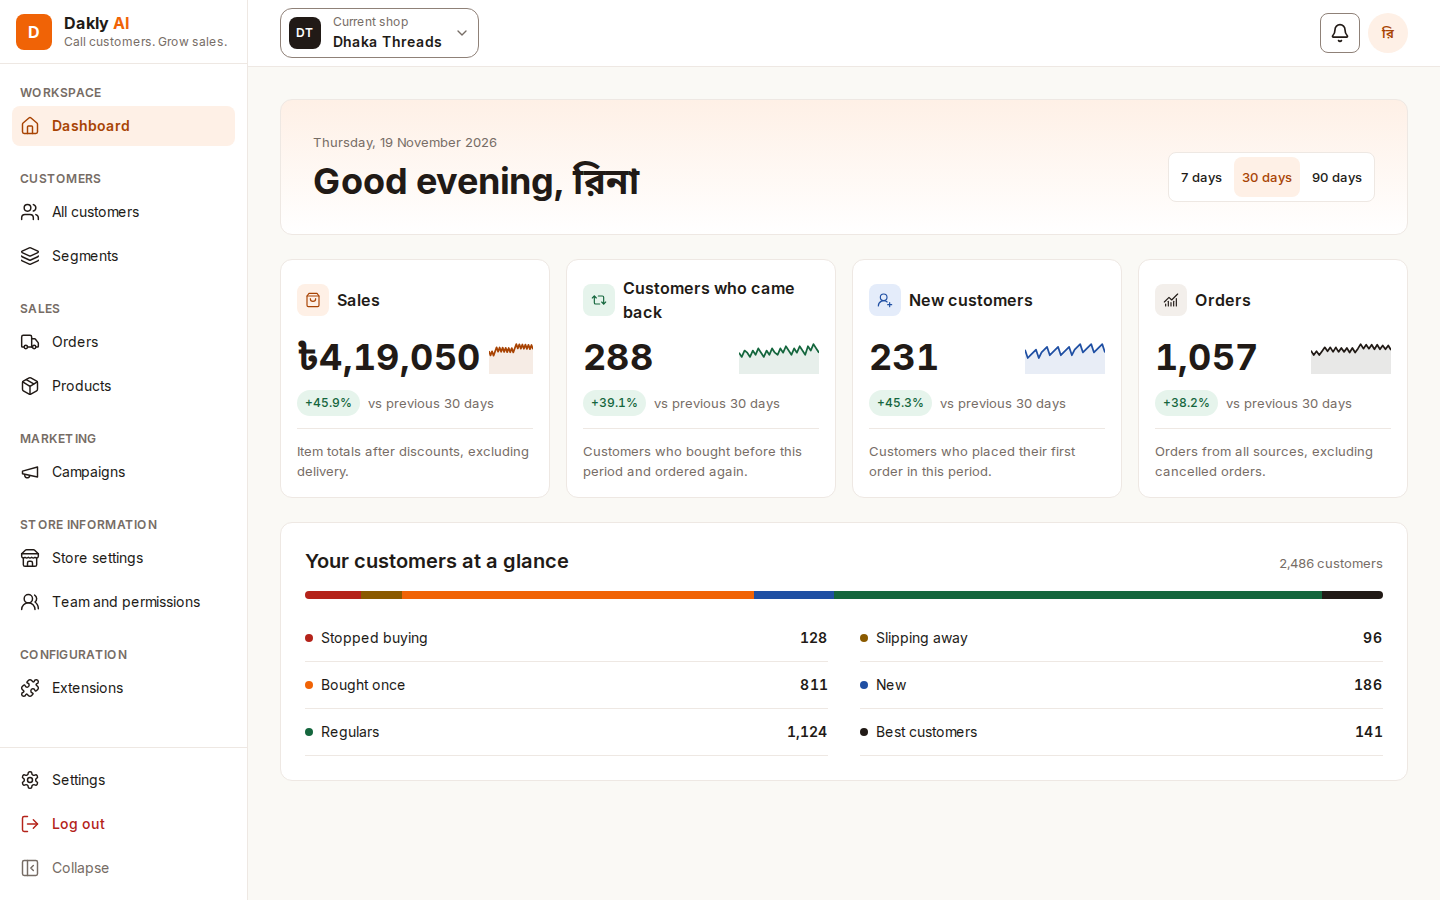
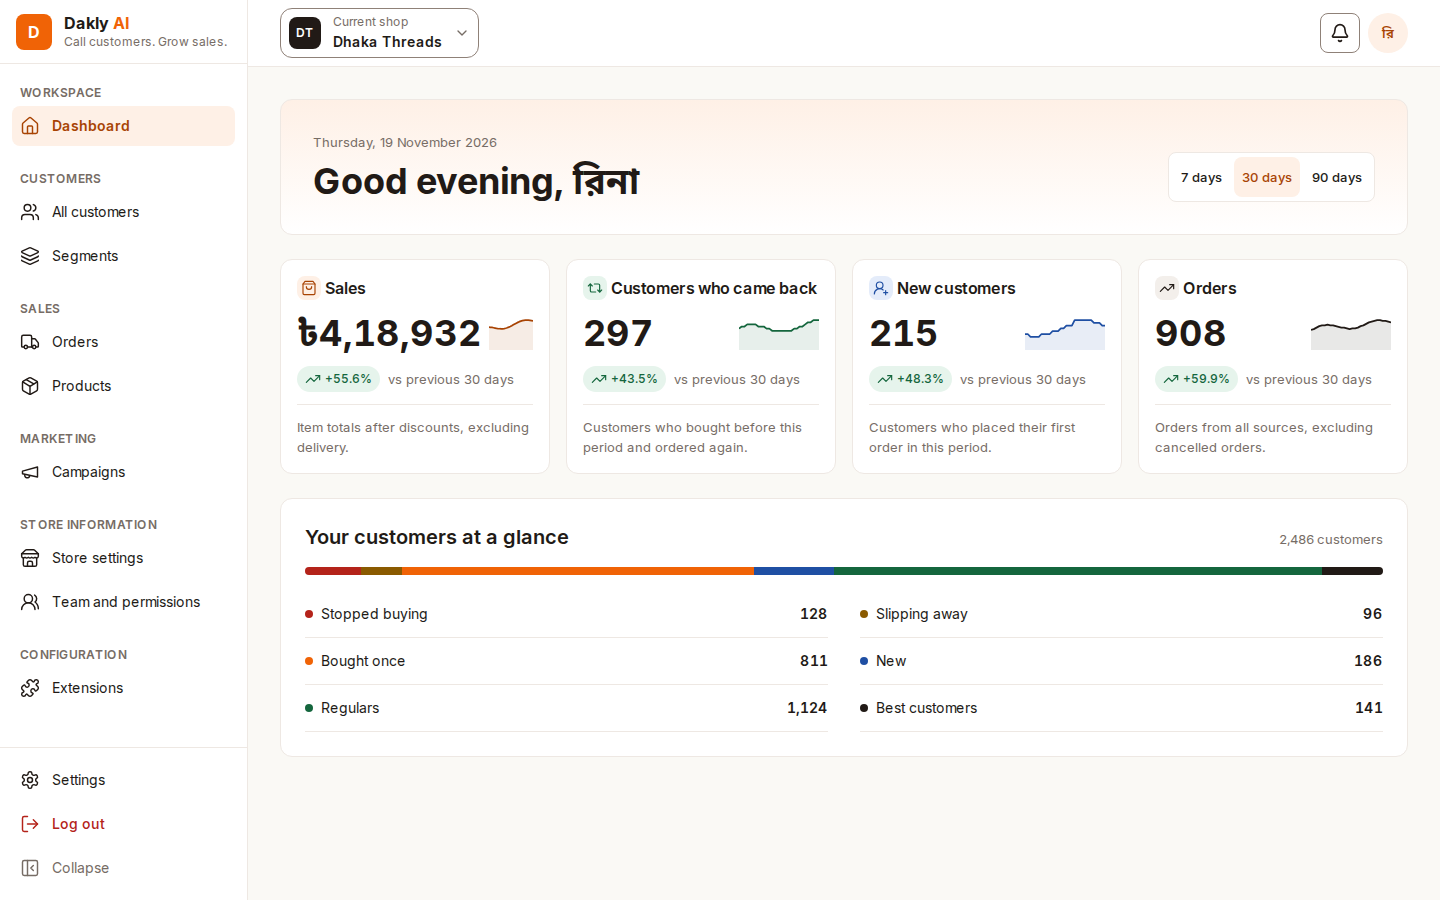
fix(home-3): match the reviewed card layout and trend labels

diff --git a/apps/web/e2e/dashboard.spec.ts b/apps/web/e2e/dashboard.spec.ts
@@ -1,3 +1,5 @@
+import { createHash } from 'node:crypto';
+
 import { expect, test } from '@playwright/test';
 
 import { createDatabase } from '@dakly/db/client';
@@ -22,15 +24,15 @@ test('changes the report period and keeps cards scoped to the selected shop', as
          from generate_series(0,59) as age
        )
        insert into store_daily_metrics (store_id,day,metric,dimension,value)
-       select $1::uuid,day,'orders','',15 + (59-age)/3 + (age*7)%13 from days
+       select $1::uuid,day,'orders','',15 + (59-age)/3 + round(sin(age/3.0)*4)::int from days
        union all
-       select $1,day,'sales','manual',500000 + (59-age)*15000 + (age*7)%13*40000 from days
+       select $1,day,'sales','manual',630000 + (59-age)*17000 + round(sin(age/4.0)*1400)::int*100 from days
        union all
        select $1,day,'buyer_activity',gen_random_uuid()::text,day-date '1970-01-01' from days
-       cross join lateral generate_series(1,3+(59-age)/12+(age*3)%4)
+       cross join lateral generate_series(1,4+(59-age)/12+round(sin(age/5.0)*2)::int)
        union all
        select $1,day,'buyer_activity',gen_random_uuid()::text,day-date '1970-01-01'-120 from days
-       cross join lateral generate_series(1,4+(59-age)/11+(age*7)%5)`,
+       cross join lateral generate_series(1,6+(59-age)/11+round(cos(age/4.0)*2)::int)`,
       [ownerShop],
     );
     await database.pool.query(
@@ -58,10 +60,15 @@ test('changes the report period and keeps cards scoped to the selected shop', as
     for (const title of ['Sales', 'Customers who came back', 'New customers', 'Orders']) {
       await expect(figures.getByRole('heading', { name: title, exact: true })).toBeVisible();
     }
+    await expect(figures.getByRole('img', { name: 'Up', exact: true })).toHaveCount(4);
     const lifecycle = page.getByRole('region', { name: 'Your customers at a glance' });
     await expect(lifecycle.getByText('2,486 customers', { exact: true })).toBeVisible();
+    await page.evaluate(async () => document.fonts.ready);
+    const repeatTitle = figures.getByRole('heading', { name: 'Customers who came back' });
+    expect(await repeatTitle.evaluate((title) => title.scrollWidth <= title.clientWidth)).toBe(
+      true,
+    );
     if (process.env.DASHBOARD_EVIDENCE) {
-      await page.evaluate(async () => document.fonts.ready);
       await page.screenshot({ path: testInfo.outputPath('dashboard-1440x900.png') });
     }
     await page.setViewportSize({ width: 360, height: 800 });
@@ -89,6 +96,10 @@ test('changes the report period and keeps cards scoped to the selected shop', as
     await expect(figures.getByText('vs previous 30 days')).toHaveCount(4);
 
     await page.setViewportSize({ width: 1440, height: 900 });
+    const saleAmount = figures.getByText(/^৳[0-9,]+$/);
+    expect(
+      await saleAmount.evaluate((amount) => amount.getBoundingClientRect().height),
+    ).toBeLessThan(48);
     await page.getByRole('combobox', { name: 'Current shop' }).selectOption(marketerShop);
     await expect(lifecycle.getByText('12 customers', { exact: true })).toBeVisible();
     await expect(
@@ -98,6 +109,10 @@ test('changes the report period and keeps cards scoped to the selected shop', as
     await expect(figures.getByRole('heading', { name: 'Orders', exact: true })).toHaveCount(0);
   } finally {
     await scrubPage(page);
+    await database.pool.query('update sessions set active_store_id=$1 where token_hash=$2', [
+      ownerShop,
+      createHash('sha256').update(fixture.token).digest(),
+    ]);
     await database.pool.query('delete from store_daily_metrics where store_id=any($1::uuid[])', [
       fixture.storeIds,
     ]);

diff --git a/apps/web/src/features/dashboard/components/dashboard-metrics.tsx b/apps/web/src/features/dashboard/components/dashboard-metrics.tsx
@@ -1,4 +1,4 @@
-import { ChartNoAxesCombined, Repeat2, ShoppingBag, UserRoundPlus } from 'lucide-react';
+import { Repeat2, ShoppingBag, TrendingDown, TrendingUp, UserRoundPlus } from 'lucide-react';
 
 import type { DashboardResponse } from '@dakly/contracts/dashboard';
 import { Badge } from '@dakly/ui/badge';
@@ -35,7 +35,7 @@ const metrics = [
   {
     id: 'orders',
     title: 'Orders',
-    icon: ChartNoAxesCombined,
+    icon: TrendingUp,
     color: 'text-text',
     fill: 'bg-surface-muted',
     description: 'Orders from all sources, excluding cancelled orders.',
@@ -45,7 +45,6 @@ const metrics = [
 type MetricsProps = { cards: DashboardResponse['cards']; period: number };
 
 export function DashboardMetrics({ cards, period }: MetricsProps) {
-  if (!Object.values(cards).some(Boolean)) return null;
   return (
     <section aria-label="Key figures" className="grid gap-4 sm:grid-cols-2 xl:grid-cols-4">
       {metrics.map(({ id, title, icon: Icon, color, fill, description }) => {
@@ -57,14 +56,14 @@ export function DashboardMetrics({ cards, period }: MetricsProps) {
         const points = sales ? card.pointsPoisha : card.points;
         return (
           <Card key={id} className="flex min-w-0 flex-col gap-3 p-4">
-            <h2 className="flex items-center gap-2 text-md font-semibold xl:min-h-12">
-              <span className={cn('rounded-md p-2', color, fill)}>
+            <h2 className="flex items-center gap-2 text-md font-semibold xl:gap-1 xl:tracking-tight xl:whitespace-nowrap">
+              <span className={cn('shrink-0 rounded-md p-2 xl:p-1', color, fill)}>
                 <Icon aria-hidden className="size-4" strokeWidth={1.75} />
               </span>
               {title}
             </h2>
-            <div className="grid grid-cols-[minmax(0,max-content)_minmax(0,1fr)] items-end gap-2">
-              <p className="min-w-0 text-2xl font-bold wrap-anywhere tabular-nums">
+            <div className="flex flex-wrap items-end gap-2">
+              <p className="max-w-full text-2xl font-bold wrap-anywhere tabular-nums">
                 {sales ? formatMoney(total) : formatCount(total)}
               </p>
               <Sparkline points={points} className={color} />
@@ -85,9 +84,13 @@ type Comparison = { total: bigint; previous: bigint; period: number };
 function ReportChange({ total, previous, period }: Comparison) {
   let variant: 'neutral' | 'success' | 'danger' = 'neutral';
   if (previous > 0n && total !== previous) variant = total > previous ? 'success' : 'danger';
+  const Trend = variant === 'success' ? TrendingUp : TrendingDown;
+  const label = variant === 'success' ? 'Up' : 'Down';
+  const icon = <Trend role="img" aria-label={label} size={16} strokeWidth={1.75} />;
   return (
     <div className="flex flex-wrap items-center gap-x-2 gap-y-1 text-sm text-text-muted">
-      <Badge variant={variant} className="rounded-full tabular-nums">
+      <Badge variant={variant} className="gap-1 rounded-full tabular-nums">
+        {variant !== 'neutral' && icon}
         {change(total, previous)}
       </Badge>
       <span>vs previous {period} days</span>
@@ -115,7 +118,7 @@ function Sparkline({ points, className }: { points: string[]; className: string 
       aria-hidden
       viewBox="0 0 80 30"
       preserveAspectRatio="none"
-      className={cn('mb-1 h-8 w-full max-w-20 justify-self-end', className)}
+      className={cn('mb-1 ml-auto h-8 w-0 max-w-20 min-w-6 flex-1', className)}
     >
       <polygon points={`0,30 ${trend} 80,30`} fill="currentColor" opacity="0.1" />
       <polyline

diff --git a/apps/web/src/features/dashboard/components/dashboard.tsx b/apps/web/src/features/dashboard/components/dashboard.tsx
@@ -20,11 +20,10 @@ export function Dashboard({ period }: DashboardQuery) {
   const { data, error, isPending, refetch } = useDashboard(period, Boolean(session?.currentStore));
   if (!session?.currentStore) return null;
 
-  const available = data ? hasReports(data) : true;
   const firstName = session.user.name.trim().split(/\s+/)[0];
   return (
     <main className="mx-auto max-w-7xl space-y-6 p-6 md:p-8">
-      <DashboardHeader data={data} name={firstName} period={period} available={available} />
+      <DashboardHeader data={data} name={firstName} period={period} />
       {isPending && (
         <div role="status" className="grid gap-4 sm:grid-cols-2 xl:grid-cols-4">
           <span className="sr-only">Loading dashboard reports</span>
@@ -45,9 +44,9 @@ export function Dashboard({ period }: DashboardQuery) {
   );
 }
 
-type HeaderProps = DashboardQuery & { data?: DashboardResponse; name?: string; available: boolean };
+type HeaderProps = DashboardQuery & { data?: DashboardResponse; name?: string };
 
-function DashboardHeader({ data, name, period, available }: HeaderProps) {
+function DashboardHeader({ data, name, period }: HeaderProps) {
   return (
     <Card className="flex flex-col justify-between gap-4 bg-linear-to-b from-primary-soft to-surface md:flex-row md:items-end md:p-8">
       <div>
@@ -63,7 +62,7 @@ function DashboardHeader({ data, name, period, available }: HeaderProps) {
           </p>
         )}
       </div>
-      {available && (
+      {(!data || hasReports(data)) && (
         <nav
           aria-label="Reporting period"
           className="flex w-fit max-w-full flex-wrap gap-1 rounded-md border border-border bg-surface p-1"

diff --git a/docs/features/10-dashboard-and-notifications.md b/docs/features/10-dashboard-and-notifications.md
@@ -238,7 +238,7 @@ Setup banner, greeting with the Ask box, a 3-step getting started card, KPI card
 
 ### How it works
 
-The dashboard reads `GET /dashboard` once per period. The `period` query accepts 7, 30 or 90 days and defaults to 30. The API uses the same report functions as Analytics for both periods and the daily points. Orders and Sales require Orders access. New customers, Customers who came back and lifecycle groups require Customers access. The lifecycle groups use the latest snapshot in the selected period. HOME-3 shows Sales while Money from marketing waits for ANA-2. The Ask box waits for HOME-4, and the setup checklist waits for ACC-13. Campaign suggestions and the posts calendar are outside HOME-3. Lifecycle counts are visible without stage links until All customers can filter by lifecycle stage.
+The dashboard reads `GET /dashboard` once per period. The `period` query accepts 7, 30 or 90 days and defaults to 30. The API uses the same report functions as Analytics for both periods and the daily points. Orders and Sales require Orders access. New customers, Customers who came back and lifecycle groups require Customers access. The lifecycle groups use the latest snapshot in the selected period. Sales holds the first card until ANA-2 supplies Money from Dakly messages. The Ask box waits for HOME-4, and the setup checklist waits for ACC-13. Campaign suggestions and the posts calendar are outside HOME-3. Lifecycle counts are visible without stage links until All customers can filter by lifecycle stage.
 
 Notifications
 
